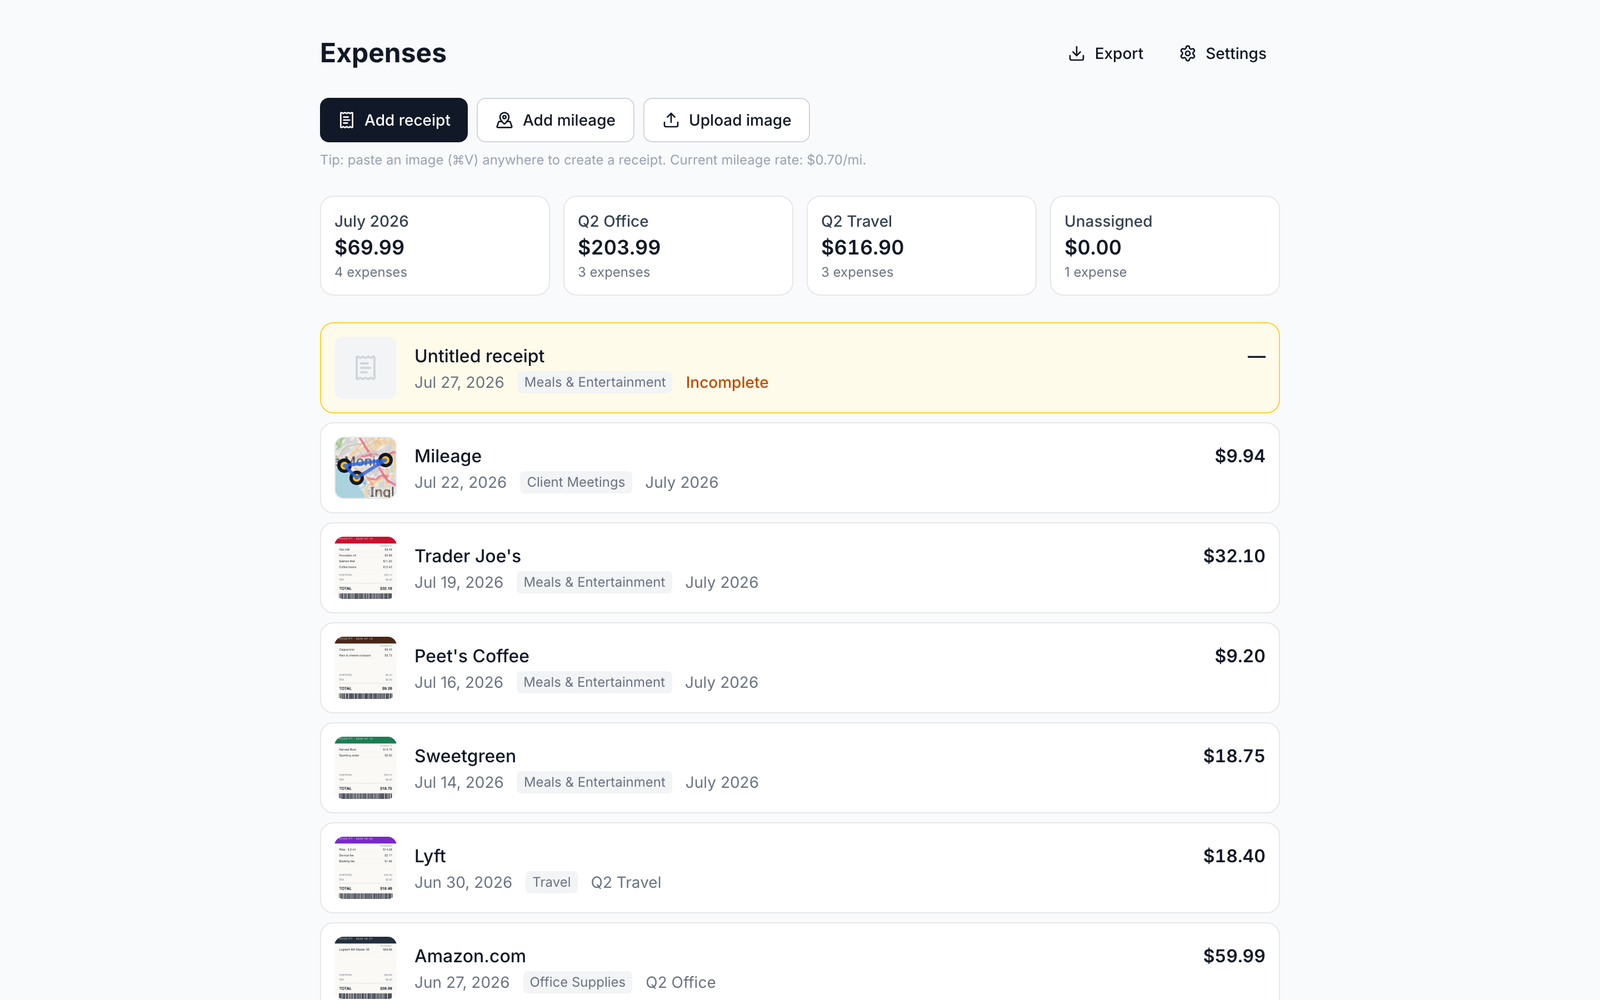
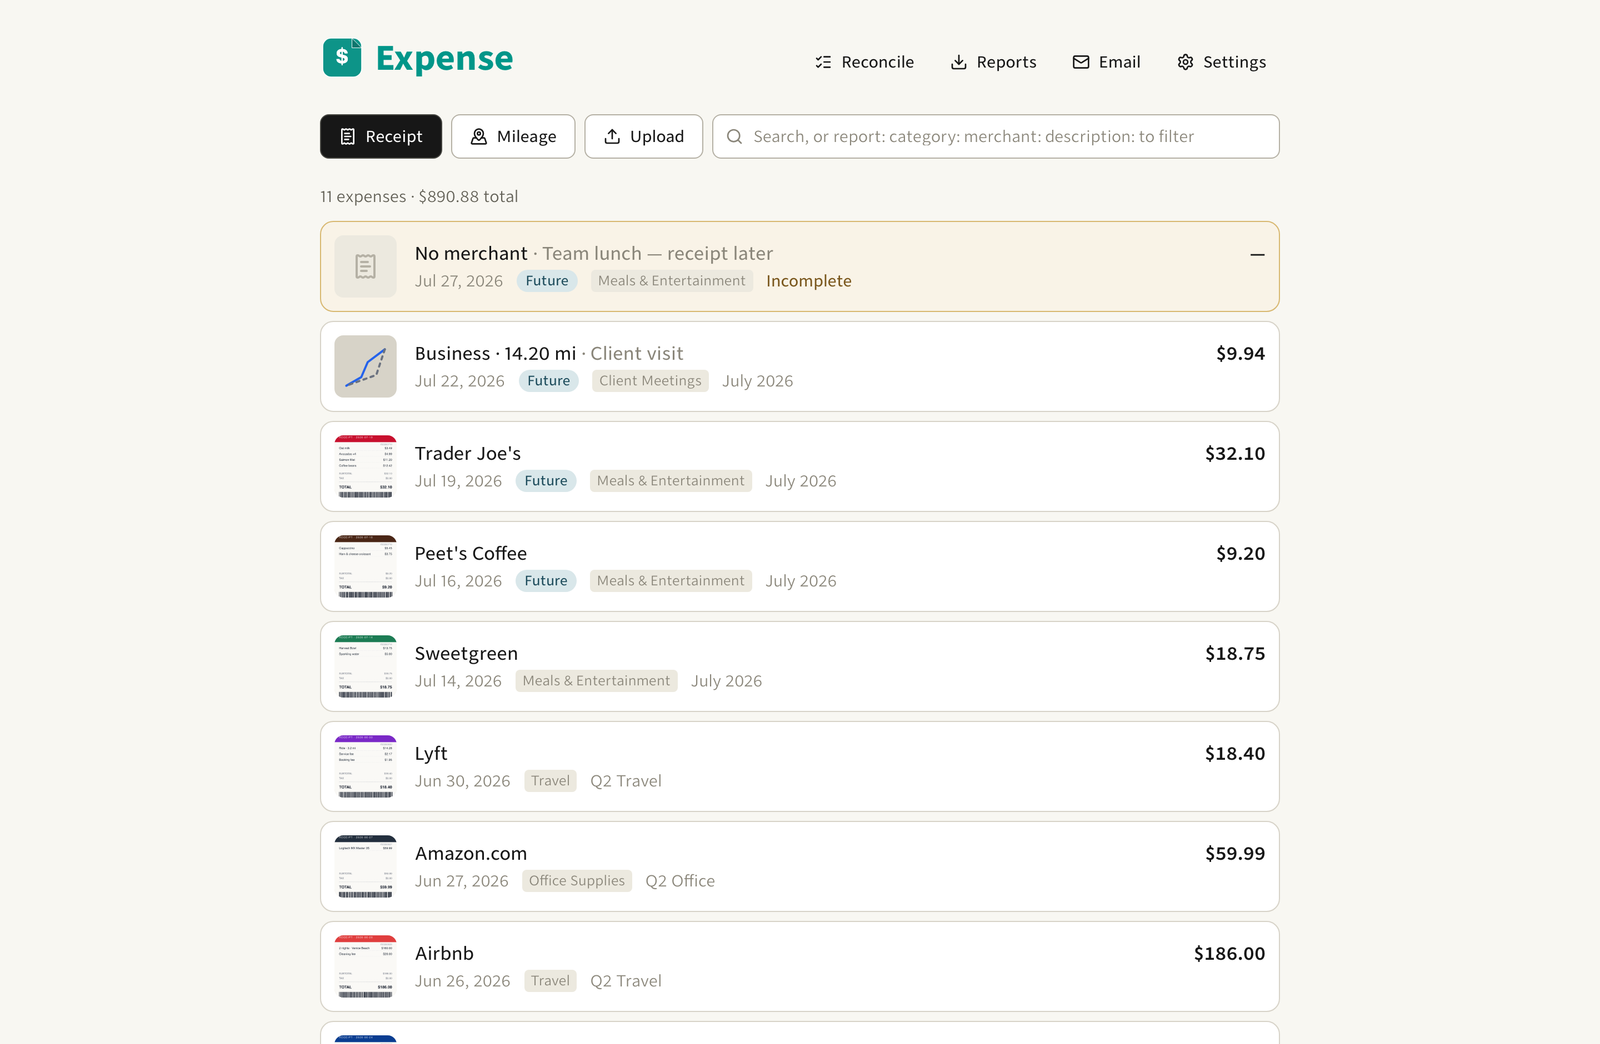
chore(screenshots): regenerate README + landing shots for the current UI
The landing hero, og card, and README home/editor screenshots were last
captured in early August; the home page has changed a lot since (header
nav, toolbar, badges). pnpm screenshot now regenerates all four from the
same seeded capture: the hero is a viewport crop of home, the og card
its 1200x630 top slice.

Also fixes the capture flow itself: seedScreenshotData created the
TEST_EMAIL user unverified, so once email verification started gating
sign-in the flow could never log in; and its structural assertions
still expected the old reports section (moved to /export). The suite
screenshot drift block now skips during SCREENSHOT runs, since the
README seeder replaces the shared seed state the drift block compares
against.

diff --git a/test/screenshot.test.ts b/test/screenshot.test.ts
@@ -271,6 +271,8 @@ async function seedScreenshotData() {
       accountId: ACCOUNT,
       email: TEST_EMAIL,
       passwordHash: await hashPassword(TEST_PASSWORD),
+      // Email verification gates sign-in; the capture user is pre-verified.
+      emailVerifiedAt: NOW,
       createdAt: NOW,
     },
   });
@@ -418,17 +420,25 @@ async function captureHome(page: import("playwright").Page): Promise<void> {
   await expect
     .poll(() => page.locator("main li").count(), { timeout: 10_000 })
     .toBe(11); // 9 receipts + mileage + 1 incomplete
-  expect(await page.locator("main section button").count()).toBe(4); // reports
-  expect(await page.locator("main li img:not(.leaflet-tile)").count()).toBe(9); // receipt thumbs
+  expect(await page.locator("main header nav a").count()).toBe(4); // Reconcile, Reports, Email, Settings
   expect(await page.getByText("Incomplete").count()).toBe(1);
   expect(await page.getByText("July 2026").count()).toBeGreaterThan(0);
   expect(await page.getByText("Q2 Travel").count()).toBeGreaterThan(0);
-  expect(
-    await page.getByText(/Current mileage rate: \$0\.7\d\/mi\./).count(),
-  ).toBe(1);
+  // The seeded mileage row renders (description is its label on home).
+  expect(await page.getByText("Client visit").count()).toBe(1);
 
   await page.screenshot({ path: "public/screenshot-home.png", fullPage: true });
   await shrinkForReadme("public/screenshot-home.png");
+
+  // The landing page frames a viewport crop of the same home page as its
+  // hero, and the og card is the hero's top slice at social-card size.
+  // Regenerating them here keeps all three in sync with the current UI.
+  await page.screenshot({ path: "public/screenshot-hero.png" });
+  await shrinkForReadme("public/screenshot-hero.png");
+  await sharp("public/screenshot-hero.png")
+    .resize(1200, 630, { fit: "cover", position: "top" })
+    .png()
+    .toFile("public/screenshot-og.png");
 }
 
 describe.skipIf(!process.env.SCREENSHOT)("README screenshots", () => {
@@ -491,7 +501,7 @@ describe.skipIf(!process.env.SCREENSHOT)("README screenshots", () => {
  * hydrates, or drifts from its baseline is a broken screen, not a missing
  * artifact. Review drift with `pnpm screenshots:review`.
  */
-describe("suite screenshots", () => {
+describe.skipIf(process.env.SCREENSHOT)("suite screenshots", () => {
   /** Drift findings across all captures, asserted empty at the end so one
    * run surfaces every drifted screen (and leaves its diff artifacts),
    * not just the first. Client-side exceptions are collected alongside:
